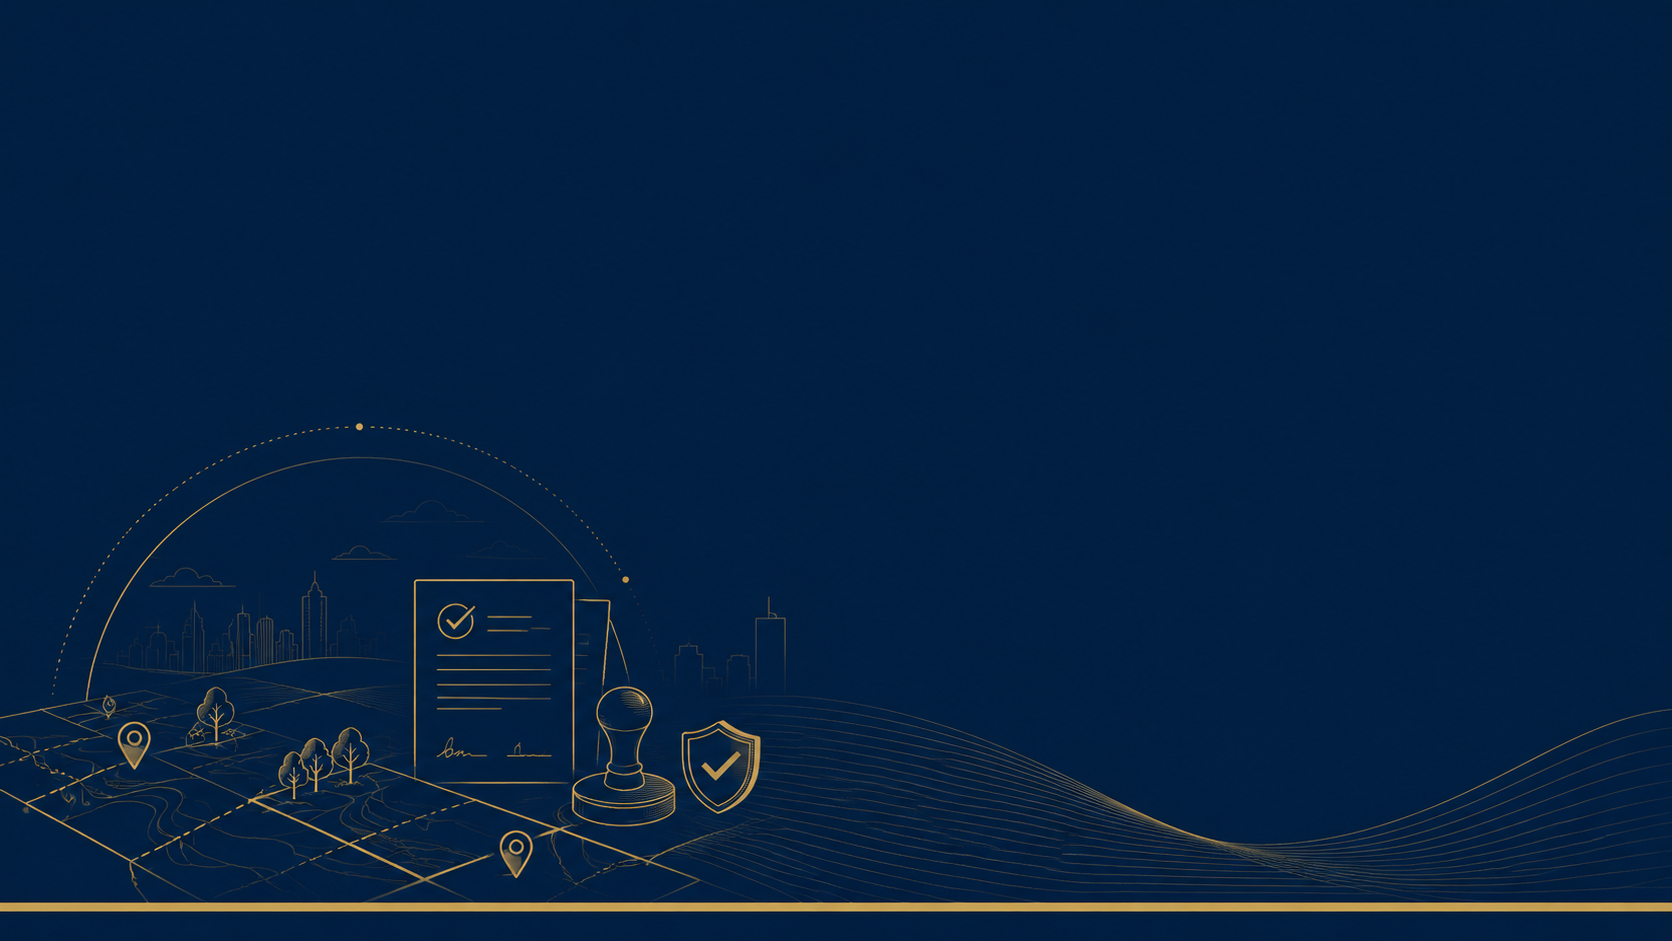
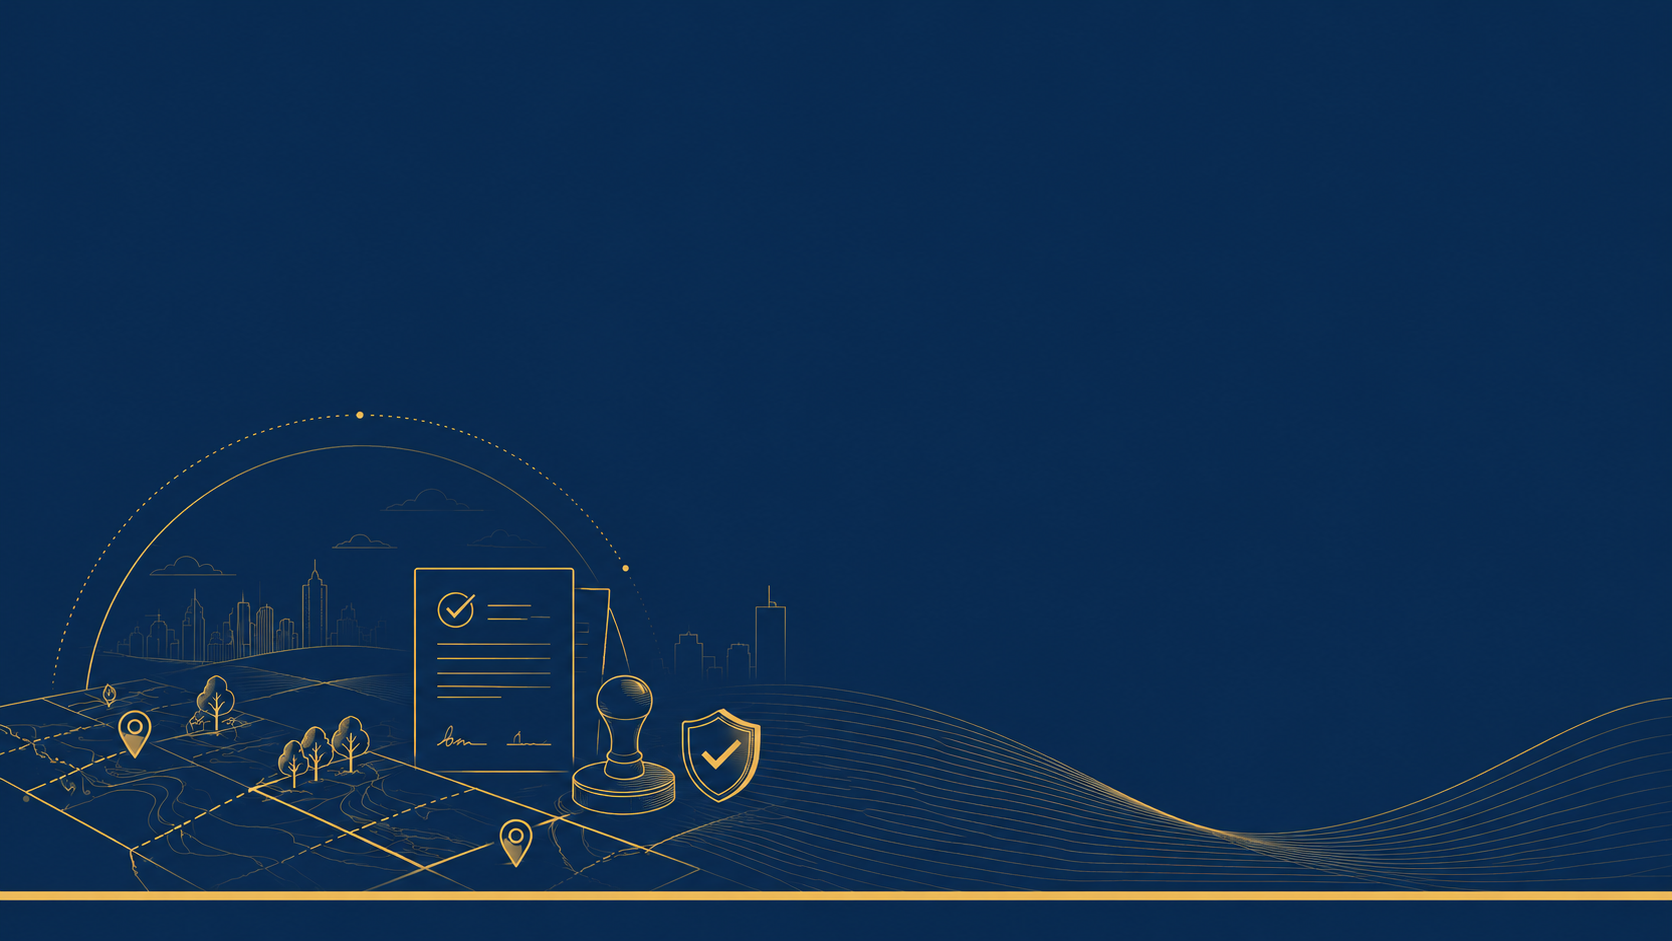
feat: implement responsive footer component with navigation and contact form functionality

diff --git a/src/components/layout/footer.tsx b/src/components/layout/footer.tsx
@@ -46,10 +46,10 @@ export function Footer() {
             <div className="flex flex-col items-start pt-[19px] w-full justify-self-start text-left">
               <div className="flex items-center gap-[14px] xl:gap-[18px]">
                 {/* Logo Container matching Header scale but larger */}
-                <div className="w-[72px] h-[72px] xl:w-[82px] xl:h-[82px] relative flex items-center justify-center shrink-0 overflow-hidden" style={{ transform: 'translateY(3px)' }}>
+                <div className="w-[72px] h-[72px] xl:w-[82px] xl:h-[82px] relative flex items-center justify-center shrink-0" style={{ transform: 'translateY(-6px)' }}>
                   <div className="absolute inset-0 w-full h-full" style={{ transform: 'scale(1.34)' }}>
                     <Image
-                      src="/logo-white-transparent.png"
+                      src="/logo-transparent-dark.png"
                       alt="Conservve Logo Light"
                       fill
                       className="object-contain"
@@ -153,18 +153,18 @@ export function Footer() {
                         exit={{ opacity: 0, y: 5 }}
                         transition={{ duration: 0.15 }}
                         className="hidden lg:block absolute left-0 top-full mt-2 py-1.5 w-36 rounded shadow-lg z-50"
-                        style={{ backgroundColor: '#BFA052' }}
+                        style={{ backgroundColor: '#FFFFFF', border: '1.5px solid #BFA052' }}
                       >
                         <Link
                           href="/services/land-approval"
-                          className="block px-3 py-1.5 text-[9.5px] font-bold text-[#0C2C4D] hover:bg-white/20 transition-all tracking-wider font-gotham whitespace-nowrap"
+                          className="block px-3 py-1.5 text-[9.5px] font-bold text-[#0C2C4D] hover:bg-[#BFA052]/10 hover:text-[#BFA052] transition-all tracking-wider font-gotham whitespace-nowrap"
                           style={{ fontFamily: "'Gotham', Arial, sans-serif" }}
                         >
                           LAND APPROVAL
                         </Link>
                         <Link
                           href="/services/land-acquisition"
-                          className="block px-3 py-1.5 text-[9.5px] font-bold text-[#0C2C4D] hover:bg-white/20 transition-all tracking-wider font-gotham whitespace-nowrap"
+                          className="block px-3 py-1.5 text-[9.5px] font-bold text-[#0C2C4D] hover:bg-[#BFA052]/10 hover:text-[#BFA052] transition-all tracking-wider font-gotham whitespace-nowrap"
                           style={{ fontFamily: "'Gotham', Arial, sans-serif" }}
                         >
                           LAND ACQUISITION
@@ -182,18 +182,18 @@ export function Footer() {
                         exit={{ height: 0, opacity: 0 }}
                         transition={{ duration: 0.15 }}
                         className="lg:hidden overflow-hidden mt-2 rounded"
-                        style={{ backgroundColor: '#BFA052' }}
+                        style={{ backgroundColor: '#FFFFFF', border: '1.5px solid #BFA052' }}
                       >
                         <Link
                           href="/services/land-approval"
-                          className="block px-3 py-1.5 text-[9.5px] font-bold text-[#0C2C4D] hover:bg-white/20 transition-all tracking-wider font-gotham whitespace-nowrap"
+                          className="block px-3 py-1.5 text-[9.5px] font-bold text-[#0C2C4D] hover:bg-[#BFA052]/10 hover:text-[#BFA052] transition-all tracking-wider font-gotham whitespace-nowrap"
                           style={{ fontFamily: "'Gotham', Arial, sans-serif" }}
                         >
                           LAND APPROVAL
                         </Link>
                         <Link
                           href="/services/land-acquisition"
-                          className="block px-3 py-1.5 text-[9.5px] font-bold text-[#0C2C4D] hover:bg-white/20 transition-all tracking-wider font-gotham whitespace-nowrap"
+                          className="block px-3 py-1.5 text-[9.5px] font-bold text-[#0C2C4D] hover:bg-[#BFA052]/10 hover:text-[#BFA052] transition-all tracking-wider font-gotham whitespace-nowrap"
                           style={{ fontFamily: "'Gotham', Arial, sans-serif" }}
                         >
                           LAND ACQUISITION
@@ -387,7 +387,7 @@ export function Footer() {
             }}
             className="font-gotham font-semibold tracking-wider"
           >
-            © 2026 CONSERVVE INFRA SOLUTIONS. ALL RIGHTS RESERVED.
+            © 2026 CONSERVVE INFRA SOLUTIONSS. ALL RIGHTS RESERVED.
           </p>
         </div>
       </div>